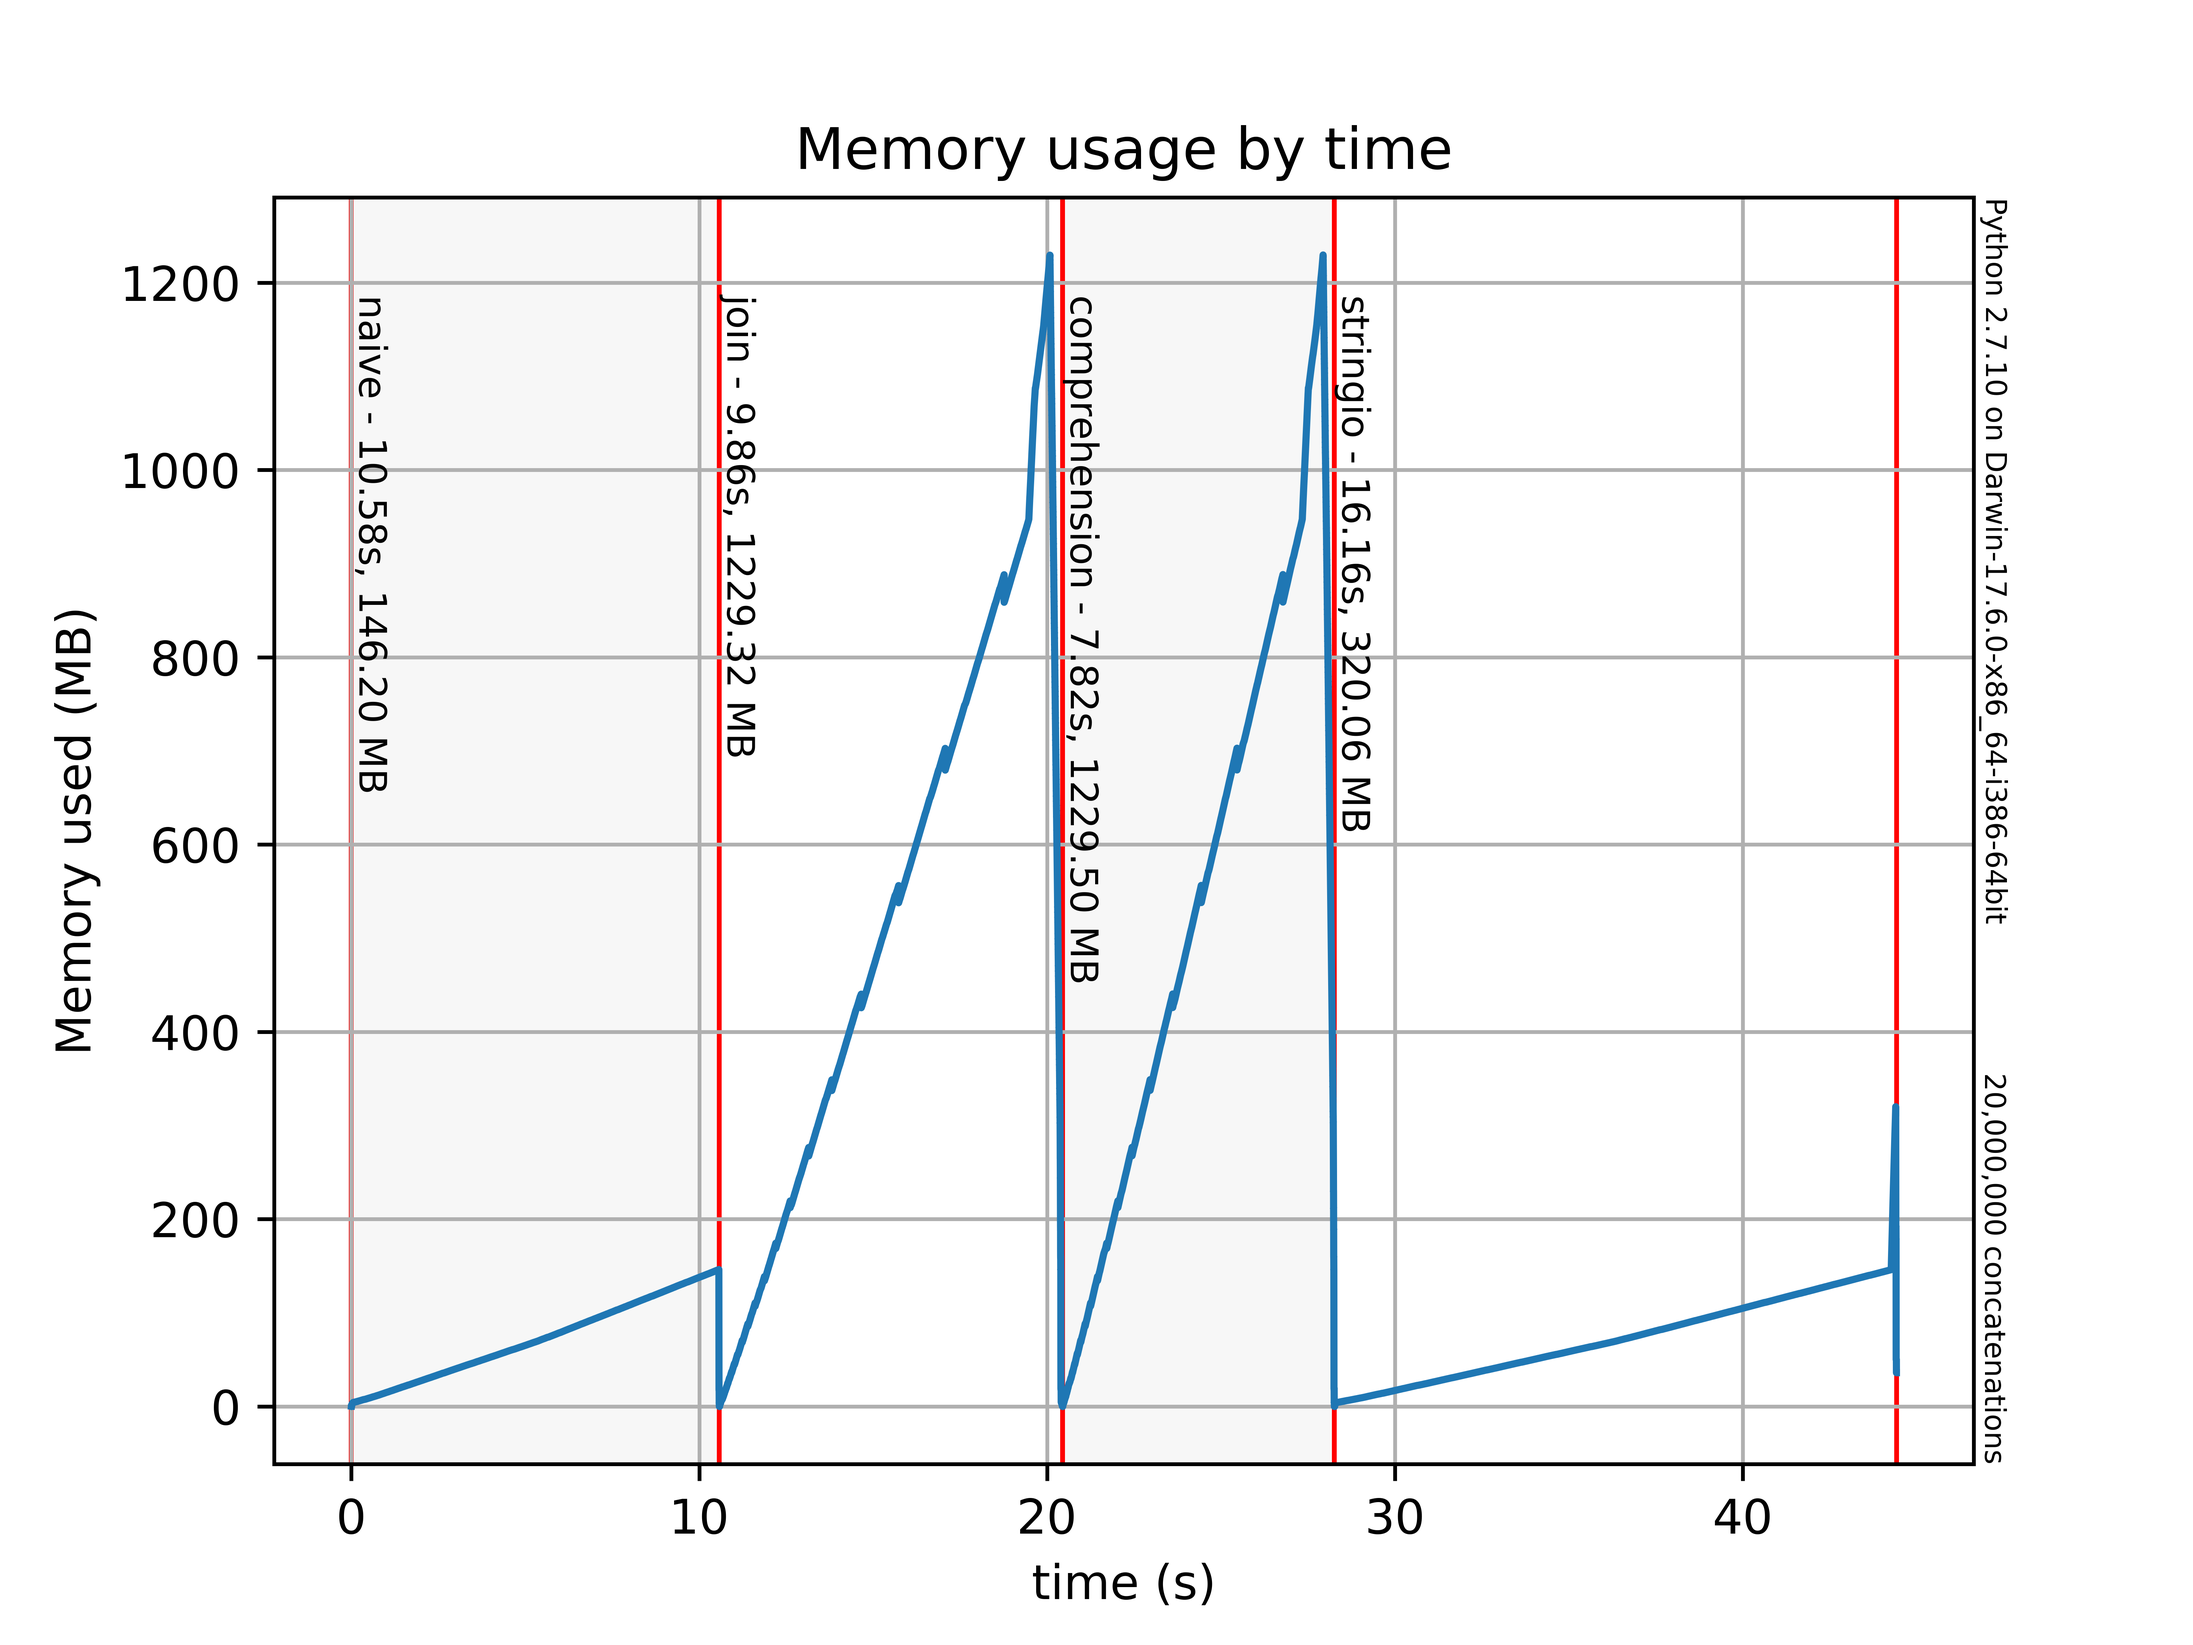
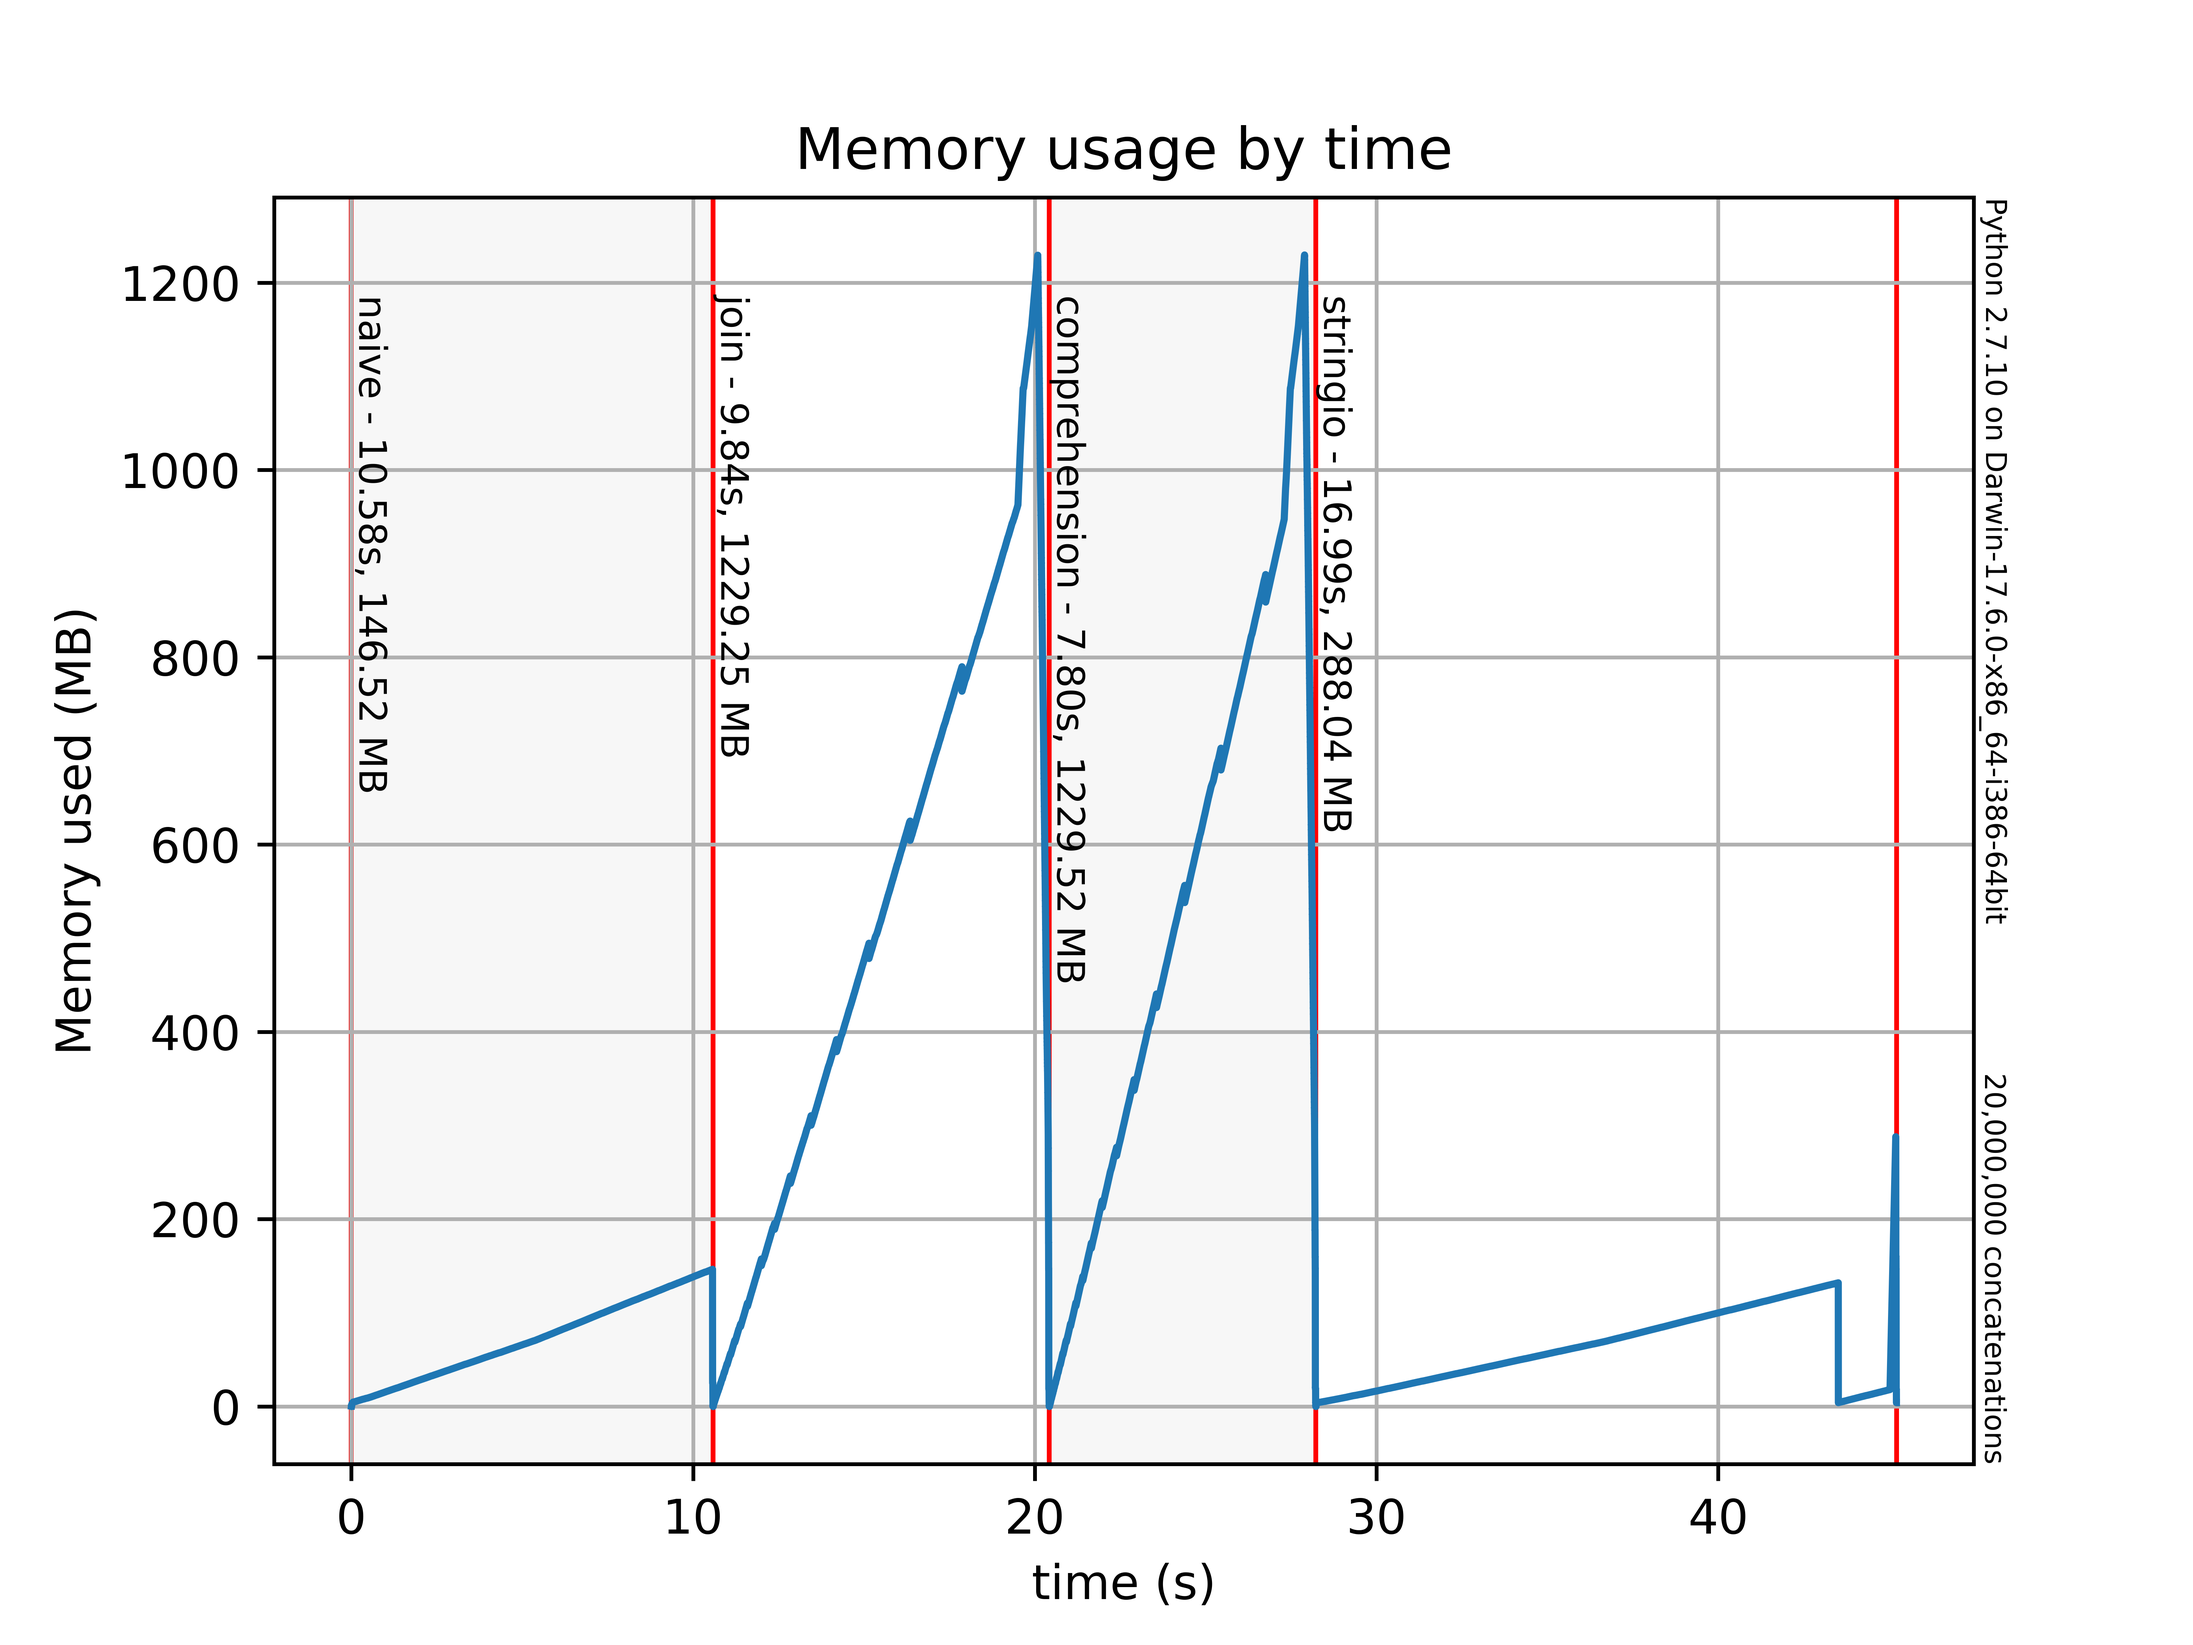
Got rid of the 'stdout' catch directory

diff --git a/memprof.py b/memprof.py
@@ -15,8 +15,6 @@ where -h                  prints help messages and quits,
       -g <plotimage>      if specified, the path to the plot file to produce
       -o <profile_file>   write profile data to <profile_file>
                           (default "profile.out").
-      -s <outdir>         sets the directory to receive stdout capture files
-                          (default "stdout")
       -p <2|3>            use python 2 or 3 to execute filenames (3 is default)
 """
 
@@ -31,9 +29,8 @@ import psutil
 import plot
 
 
-# default output filename and stdout save dir
+# default output filename
 DefaultOutputFile = 'memprof.out'
-DefaultStdoutSave = 'stdout'
 
 # versions of python to use
 DefaultPython2 = 'python'
@@ -107,31 +104,24 @@ def read_input_file(path):
 
     return result
 
-def memprof(files, output_file, save_dir, python_exe):
+def memprof(files, output_file, python_exe):
     """Create a memory profile of one or more executable files.
 
     files        a list of names+executable files
     output_file  the file to write profile information to
-    save_dir     the directory in which to store stdout save files
     python_exe   the python to execute the executable files with
     """
-
-    # create the save directory, if necessary
-    if not os.path.isdir(save_dir):
-        os.mkdir(save_dir)
 
     # open the stats save file
     fd = open(output_file, 'w')
 
     # process each executable
     for (name, exe_path) in files:
-        stdout_save = os.path.join(save_dir, name + '.stdout')
         if not os.path.isabs(exe_path):
             exe_path = os.path.abspath(exe_path)
 
         command = '%s %s' % (python_exe, exe_path)
-        with open(stdout_save, 'w') as save_fd:
-            process = subprocess.Popen(command, shell=True, stdout=save_fd)
+        process = subprocess.Popen(command, shell=True)
         pid = process.pid
 
         # now do memory profile until process quits
@@ -177,7 +167,6 @@ def main():
         sys.exit(1)
     
     output_file = DefaultOutputFile
-    save_dir = DefaultStdoutSave
     python_exe = DefaultPython3
     plot_file = None
     file_list = []
@@ -211,8 +200,6 @@ def main():
         if opt in ['-s', '--save']:
             if param == '2':
                 python_exe = DefaultPython2
-        if opt in ['-s', '--save']:
-            save_dir = param
 
     # sanity check
     if not file_list:
@@ -220,7 +207,7 @@ def main():
         abort('You must supply one or more executable files to profile.')
     
     # run the program code
-    memprof(file_list, output_file, save_dir, python_exe)
+    memprof(file_list, output_file, python_exe)
 
     # if plot needed, do it
     if plot_file:

diff --git a/concat_join.py b/concat_join.py
@@ -5,7 +5,6 @@ Test of "join" string concatenation.
 """
 
 import sys
-import time
 import common
 if sys.version_info >= (3, 0):
     # python3 - make changes
@@ -13,10 +12,7 @@ if sys.version_info >= (3, 0):
 
 
 a = []
-start = time.time()
 
 for n in xrange(common.loops):
     a.append(str(n))
 a = ''.join(a)
-
-print('join|%d|%d' % (common.loops, time.time() - start))

diff --git a/concat_naive.py b/concat_naive.py
@@ -5,7 +5,6 @@ Test of "naive" string concatenation.
 """
 
 import sys
-import time
 import common
 if sys.version_info >= (3, 0):
     # python3 - make changes
@@ -14,8 +13,5 @@ if sys.version_info >= (3, 0):
 
 a = ''
 
-start = time.time()
 for n in xrange(common.loops):
     a += str(n)
-
-print('naive|%d|%d' % (common.loops, time.time() - start))

diff --git a/concat_stringio.py b/concat_stringio.py
@@ -4,7 +4,6 @@
 Test of "stringIO" string concatenation.
 """
 
-import time
 import common
 try:
     from cStringIO import StringIO
@@ -17,10 +16,6 @@ except ImportError:
 
 
 a = StringIO()
-start = time.time()
 for n in xrange(common.loops):
     a.write(str(n))
 a = a.getvalue()
-
-print('stringIO|%d|%f' % (common.loops, time.time() - start))
-

diff --git a/concat_comprehension.py b/concat_comprehension.py
@@ -5,15 +5,11 @@ Test of "comprehension" string concatenation.
 """
 
 import sys
-import time
 import common
 if sys.version_info >= (3, 0):
     # python3 - make changes
     xrange = range
 
 
-start = time.time()
 a = [str(n) for n in xrange(common.loops)]
 a = ''.join(a)
-
-print('comprehension|%d|%d' % (common.loops, time.time() - start))
